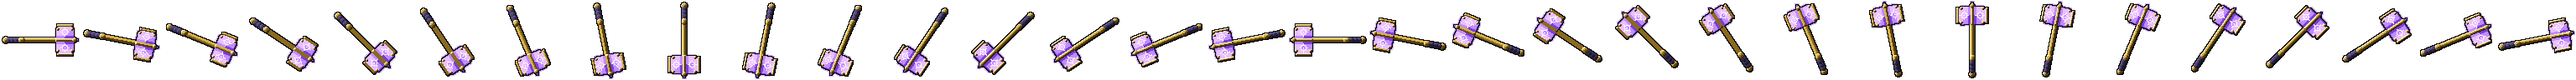
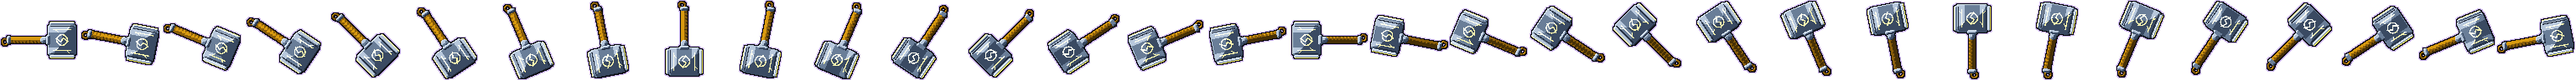
Mjolnir: the hammer's Ascension is the thunder-god's, with its own drawing
Eric: "when selecting the giant hammer ascension, the sprite should be entirely
different and more detailed, so it doesn't look like just a giant version of
the smaller hammer", and a Mjolnir reference for a Lightning crossover. Titan's
Maul (id kept) becomes Mjolnir: a steel block of a head, rune-cut in
Lightning's ramp and plated at its faces, on a short leather-wound haft with an
iron pommel and a wrist loop (spirit_weapons.py mjolnir(); the sheet keeps its
name). It keeps the colossal size and the stop, and every full slam calls a
thunderstroke onto where it landed and onto the 3 nearest enemies past its
edge, for half the slam and a 0.25 s stagger (SpiritualWeapon.CallThunder,
ThunderStrike's pixel-art stroke). Its Lightning is a trade for the hammer's
Light, as Ember Caps trades Poison for Fire: a spell may never name more than
two elements, which +1 Lightning on Arcane + Light broke. New card icon.

Band (Earthshaker + Mjolnir, level 8): 428 a second (Titan's Maul 423-426).

Also every card this branch wrote, cut to one line (the designer: "Overall
keep text minimal"): Tidal Wall, Trident, Mjolnir, and Arcane Orb's added
sentence removed.

Claude-Session: https://claude.ai/code/session_01YXZmSHQrdLtKkMEcduos8u

Changed region(s): [[0.0, 0.0, 1.0, 1.0]]

diff --git a/tools/art/spirit_weapons.py b/tools/art/spirit_weapons.py
@@ -70,6 +70,10 @@ OCC = bl.OCC
 ARC = bl.ELEMENTS["arcane"]     # core, hot, mid, edge
 GOLD = bl.MATERIALS["gold"]     # hi, lit, base, shade, deep
 VIOLET = bl.MATERIALS["violet"]
+# Mjolnir's (2026-10-31): steel in five tones, leather from amber's three darkest, runes in Lightning's ramp.
+STEEL = bl.MATERIALS["steel"]
+LEATHER = bl.MATERIALS["amber"][2:5]
+LIGHTNING = bl.ELEMENTS["lightning"]
 
 # The key light in screen space: from the upper left (art-direction.md section 2).
 KEY = (-1.0 / math.sqrt(2.0), -1.0 / math.sqrt(2.0))
@@ -303,6 +307,60 @@ def maul():
     return parts, 47.0
 
 
+def mjolnir():
+    """Mjolnir, the hammer's Ascension since 2026-10-31 (Eric: "the sprite should be entirely different and
+    more detailed, so it doesn't look like just a giant version of the smaller hammer", and a Mjolnir
+    reference for a Lightning crossover). Not the spirit hammer grown: a made thing of steel, not of
+    conjured light. A broad, deep block of a head - wider across than the haft is long, its corners cut -
+    plated at both striking faces, grooved a hand in from each, and rune-cut down its cheek in Lightning's
+    ramp: a ring with a bolt through it and a rune stroke either side. Under it a short, thick haft wound
+    in leather the whole way, an iron pommel, and the wrist loop hanging off the pommel. The grip and the
+    head keep the boss cell's points (28 behind and ahead of the centre), which SpiritualWeapon reads."""
+    parts = []
+    # The haft: short and thick, leather wound over steel; only its last stretch shows under the head.
+    parts.append(Part(lambda u, v: sd_capsule(u, v, -36.0, 11.0, 3.6), "steel", 1, (-39.6, 14.6, -3.6, 3.6)))
+    wraps = [(-33.5 + 4.2 * i, -31.3 + 4.2 * i) for i in range(9)]
+    _grip(parts, wraps, 4.1, mat="leather", layer=2)
+    parts.append(Part(lambda u, v: sd_capsule(u, v, 4.4, 5.8, 4.4), "steel", 3, (0.0, 10.2, -4.4, 4.4)))
+    # The pommel, and the loop of cord through it.
+    parts.append(Part(lambda u, v: sd_box(u, v, -37.6, 0.0, 2.6, 4.8, 1.4), "steel", 3, (-40.2, -35.0, -4.8, 4.8)))
+    loop = lambda u, v: abs(math.hypot(u + 42.0, v - 2.5) - 3.4) - 1.1
+    parts.append(Part(loop, "leather", 2, (-46.6, -37.4, -2.1, 7.1)))
+
+    # The head: u 9 to 43, v -22 to 22, its corners cut.
+    def rune(u, v):
+        r = math.hypot(u - 26.0, v)
+        if 5.6 < r < 7.0:
+            return True
+        # A bolt through the ring: a zigzag of three strokes, one art px wide.
+        bolt = [(17.0, -2.4), (24.6, 2.0), (27.4, -2.0), (35.0, 2.4)]
+        if r < 8.4 and polyline_dist(u, v, bolt) < 0.7:
+            return True
+        # A rune stroke either side: a stave with two short twigs (the old letters on its cheek).
+        for sv in (-1.0, 1.0):
+            cv = sv * 12.4
+            if abs(v - cv) < 0.65 and 15.0 < u < 37.0:
+                return True
+            if abs((u - 31.0) - (v - cv) * 1.2 * sv) < 0.75 and 31.0 < u < 35.0:
+                return True
+            if abs((u - 18.0) + (v - cv) * 1.2 * sv) < 0.75 and 18.0 < u < 22.0:
+                return True
+        return False
+    parts.append(Part(lambda u, v: sd_box(u, v, 26.0, 0.0, 17.0, 22.0, 5.0), "steel", 4, (9.0, 43.0, -22.0, 22.0),
+                      rune=rune, depth=lambda u, v: 22.0 - abs(v)))
+    # The striking faces: plates a stop brighter, with a rim of lightning where the strike lands.
+    for sv in (-1.0, 1.0):
+        parts.append(Part(lambda u, v, sv=sv: sd_box(u, v, 26.0, sv * 20.2, 15.4, 1.9, 1.6), "plate", 5,
+                          (10.6, 41.4, sv * 20.2 - 1.9, sv * 20.2 + 1.9),
+                          edge=lambda u, v, sv=sv: abs(v - sv * 22.0) < 0.9))
+        # The groove a hand in from each face.
+        parts.append(Part(lambda u, v, sv=sv: sd_box(u, v, 26.0, sv * 16.8, 14.6, 0.55), "groove", 5,
+                          (11.4, 40.6, sv * 16.8 - 0.6, sv * 16.8 + 0.6)))
+    # Where the haft goes through the head: a steel boss on its lower edge.
+    parts.append(Part(lambda u, v: sd_box(u, v, 9.4, 0.0, 2.2, 6.0, 1.0), "steel", 6, (7.2, 11.6, -6.0, 6.0)))
+    return parts, 47.5
+
+
 def greatsword():
     """Celestial Greatsword: a jewelled pommel, a violet grip bound in gold wire, a winged guard with a
     gem, a gilded ricasso, and a long blade of light lettered with runes along its fuller."""
@@ -339,7 +397,9 @@ MODELS = {
     "hammer": lambda mirror: hammer(),
     "sword": lambda mirror: sword(),
     "greataxe": lambda mirror: greataxe(),
-    "maul": lambda mirror: maul(),
+    # The hammer's Ascension is Mjolnir since 2026-10-31; the sheet keeps its name (spirit-maul.png), which
+    # SpiritualWeapon loads. maul() above is the old giant hammer, kept for the record of what it replaced.
+    "maul": lambda mirror: mjolnir(),
     "greatsword": lambda mirror: greatsword(),
     "dagger": lambda mirror: dagger(),
 }
@@ -363,6 +423,28 @@ def _top(parts, u, v):
 
 
 def _shade(part, d, facing, u, v, big):
+    # Mjolnir's materials: steel and leather lit from the upper left, its runes and its faces' rims in
+    # Lightning's ramp rather than Arcane's (it is the thunder-god's, not a weapon of the spell's light).
+    if part.mat in ("steel", "plate", "groove", "leather"):
+        if part.rune is not None and part.rune(u, v):
+            return LIGHTNING[0] if facing > -0.2 else LIGHTNING[1]
+        if part.edge is not None and part.edge(u, v):
+            return LIGHTNING[1] if facing > -0.4 else LIGHTNING[2]
+        if part.mat == "groove":
+            return STEEL[4]
+        if part.mat == "leather":
+            # The wrap's turns: the top of each lit, its underside in shadow.
+            return LEATHER[0] if facing > 0.7 else LEATHER[1] if facing > -0.45 else LEATHER[2]
+        if d < 1.0:
+            i = 0 if facing > 0.6 else 1 if facing > 0.2 else 2 if facing > -0.35 else 3 if facing > -0.75 else 4
+            return STEEL[max(0, i - 1)] if part.mat == "plate" else STEEL[i]
+        i = 1 if facing > 0.35 else 2 if facing > -0.4 else 3
+        if part.mat == "plate":
+            i = max(0, i - 1)
+        # The cheek darkens into the middle of the block, so it reads as a mass and not a plate.
+        if part.depth is not None and part.depth(u, v) > 13.0 and i < 3:
+            i += 1
+        return STEEL[i]
     if part.rune is not None and part.rune(u, v):
         return ARC[0]
     if part.mat in ("gold", "violet"):

diff --git a/scripts/SpellEvolutionCatalog.cs b/scripts/SpellEvolutionCatalog.cs
@@ -263,7 +263,7 @@ public static class SpellEvolutionCatalog
 		{
 			Id = MagicMissile.ArcaneOrbId,
 			DisplayName = "Arcane Orb",
-			Description = $"Every missile is loosed as a great slow orb of arcane light that rolls straight through the pack, striking everything under it {1f / MagicMissile.OrbTickSeconds:0} times a second, and bursts where its flight ends for {MagicMissile.OrbBurstShare * 100f:0}% of a missile. Threaded, it turns on a fresh enemy each time its path runs clear, {MagicMissile.ThreadStrikes} times. +{(MagicMissile.OrbDamage - 1f) * 100f:0}% damage, {(MagicMissile.OrbCooldown - 1f) * 100f:0}% longer cooldown.",
+			Description = $"Every missile is loosed as a great slow orb of arcane light that rolls straight through the pack, striking everything under it {1f / MagicMissile.OrbTickSeconds:0} times a second, and bursts where its flight ends for {MagicMissile.OrbBurstShare * 100f:0}% of a missile. +{(MagicMissile.OrbDamage - 1f) * 100f:0}% damage, {(MagicMissile.OrbCooldown - 1f) * 100f:0}% longer cooldown.",
 			MilestoneLevel = 8,
 			CooldownMultiplier = MagicMissile.OrbCooldown,
 			DamageMultiplier = MagicMissile.OrbDamage,
@@ -400,6 +400,8 @@ public static class SpellEvolutionCatalog
 
 	private static readonly Color SpiritArcaneTint = new Color(0.86f, 0.78f, 1.0f);
 	private static readonly Color SpiritLightTint = new Color(1.0f, 0.95f, 0.76f);
+	// Mjolnir's: the slam's quake and debris in the pale yellow of a lightning stroke (the hammer draws itself).
+	private static readonly Color SpiritLightningTint = new Color(1.0f, 0.97f, 0.62f);
 
 	// THE AXE: heavy and slow; a blow cleaves everything within reach of its quarry and throws it back.
 	private static void SetupSpiritAxeEvolutions(SpellData spell)
@@ -533,18 +535,28 @@ public static class SpellEvolutionCatalog
 		spell.Level8Options.Add(new SpellEvolutionOption
 		{
 			Id = SpiritualWeapon.TitansMaulId,
-			DisplayName = "Titan's Maul",
-			// The colossal form, twice the hammer's size: the slam is twice as wide by its Scale. The stop
-			// is a freeze (SpellData.GetFreezeSecondsAtLevel); a boss takes a hard slow instead (Enemy.ApplySlow).
-			Description = "The hammer becomes a colossal maul, twice the size: its slam reaches twice as wide, hits 20% harder and stops what it hits dead for 0.5 s.",
+			// MJOLNIR since 2026-10-31 (it was Titan's Maul, a giant of the spirit hammer; the id stays). Eric:
+			// "the sprite should be entirely different and more detailed" and "a Mjolnir reference ... a
+			// lightning tag crossover". The thunder-god's hammer: its own drawing (tools/art/spirit_weapons.py,
+			// mjolnir()), the colossal size and the stop kept, and the lightning every slam calls down
+			// (SpiritualWeapon.CallThunder). Its Lightning is a TRADE for the hammer's Light, as Ember Caps
+			// trades Poison for Fire: a spell may never name more than two elements (RegressionChecks), and the
+			// hammer is Arcane + Light. It pays the attunement price Hallowed Ground and Hammerfall pay. The stop
+			// is a freeze (SpellData.GetFreezeSecondsAtLevel); a boss takes a hard slow (Enemy.ApplySlow).
+			ReplacesElement = "Light",
+			BonusElementWeights = new() { { "Lightning", 1 } },
+			ModulateColor = SpiritLightningTint,
+			DisplayName = "Mjolnir",
+			Description = $"A giant hammer whose slam stops what it hits and calls lightning onto the {SpiritualWeapon.MjolnirStrikes} nearest enemies past it. Trades Light for Lightning.",
+			CooldownMultiplier = AttunementGainCooldownCost,
 			MilestoneLevel = 8,
 			ScaleMultiplier = 2.0f,
 			DamageMultiplier = 1.2f,
 			Effect = SpellEffect.Freeze,
 			EffectValue = 0.5f,
 			VisualTag = "SpiritTitansMaul",
-			SynergyTag = "Light / Colossal",
-			SynergyDescription = "Ascension: the ground stops them where they stand."
+			SynergyTag = "Lightning / Colossal",
+			SynergyDescription = "Ascension: stops the knot; lightning takes the edge."
 		});
 
 		spell.Level8Options.Add(new SpellEvolutionOption
@@ -2754,12 +2766,12 @@ public static class SpellEvolutionCatalog
 		// at once were overkilling the same pack, and one measures where three did (BoltEvolutions.TidalWall*,
 		// .ai/spell-roster.md 2i).
 		spell.Level8Options.Add(Branch(spell, DefaultBranch.TitanCataclysm,
-			$"The wave leaves your hand at its own size and rises as it rolls out, into a wall of water {BoltEvolutions.TidalWallScale:0} times as wide by the end of its run. +{(BoltEvolutions.TidalWallDamage - 1f) * 100f:0}% damage and it breaks through 40 more before it is spent, but the sea takes {BoltEvolutions.TidalWallCooldown:0} times as long to gather between walls.",
-			"Ascension / Water", "Ascension: the sea comes in - seldom, and all at once.",
+			$"The wave swells as it rolls out into a wall {BoltEvolutions.TidalWallScale:0} times as wide, but comes a third as often.",
+			"Ascension / Water", "Ascension: one great wall at a time.",
 			o => { Renamed(o, "Tidal Wall", "TidalWall", sea); o.DamageMultiplier = BoltEvolutions.TidalWallDamage; o.ScaleMultiplier = BoltEvolutions.TidalWallScale; o.CooldownMultiplier = BoltEvolutions.TidalWallCooldown; o.PierceBonus = 40; }));
 		// Not "Spring Tide", as 2e first proposed: that is Tituba's Apotheosis's name.
 		spell.Level8Options.Add(Branch(spell, DefaultBranch.InfiniteHorizon,
-			$"Three waves fan out from your hand at once, the middle one on your aim and the others {BoltEvolutions.TridentSpreadDegrees:0} degrees to either side. -{(1f - BoltEvolutions.TridentCooldown) * 100f:0}% cooldown, and each wave {(BoltEvolutions.TridentDamage - 1f) * 100f:0}% harder and tearing through 4 more.",
+			$"Three waves fan out from your hand at once, each {(BoltEvolutions.TridentDamage - 1f) * 100f:0}% harder.",
 			"Ascension / Water", "Ascension: a wedge of sea in front of you every cast.",
 			// Scaled back in the Ascension audit (2026-10-30): waves 40% bigger at half the cooldown stood two
 			// fans on the screen at once (BoltEvolutions.TridentScale).

diff --git a/scripts/SpiritualWeapon.cs b/scripts/SpiritualWeapon.cs
@@ -110,6 +110,17 @@ public partial class SpiritualWeapon : Node2D
 	public const string EarthshakerId = "spiritual_weapon_hammer_earthshaker";
 	public const string HallowedGroundId = "spiritual_weapon_hammer_hallowed_ground";
 	public const string TitansMaulId = "spiritual_weapon_hammer_titans_maul";
+	// MJOLNIR (2026-10-31): the hammer's colossal Ascension is the thunder-god's, under Titan's Maul's id (saves,
+	// the browser and SeenAscensionIds carry over). Eric: "is there room for a Mjolnir reference ... so we can have
+	// a lightning tag crossover?" It keeps the maul's size and its stop, takes +1 Lightning, and every full slam
+	// (not the Aftershock's echo) calls the lightning down: a stroke out of the sky onto where it landed
+	// (ThunderStrike, Gale Blade's, on the pixel-art grid), and one onto each of the MjolnirStrikes nearest
+	// enemies just past the slam's edge - out to MjolnirReach of its radius - for MjolnirShare of the slam,
+	// staggering each MjolnirStagger seconds. The slam holds the knot; the lightning takes the ones round it.
+	public const int MjolnirStrikes = 3;
+	public const float MjolnirReach = 2.2f;
+	public const float MjolnirShare = 0.5f;
+	public const float MjolnirStagger = 0.25f;
 	public const string HammerfallId = "spiritual_weapon_hammer_hammerfall";
 
 	public const string TwinBladesId = "spiritual_weapon_sword_twin_blades";
@@ -423,7 +434,7 @@ public partial class SpiritualWeapon : Node2D
 	private float freezeSeconds;
 	private float knockback = AxeKnockback;
 	private float zoneSeconds;
-	private bool headsman, aftershock, hallowed, whirling, deflect, twin, siphon, flurry, alongBlade;
+	private bool headsman, aftershock, hallowed, whirling, deflect, twin, siphon, flurry, alongBlade, mjolnir;
 	private Color tint = Colors.White;
 	private ElementColors.Ramp arcane = ElementColors.GetRamp(Element.Arcane);
 	private ElementColors.Ramp light = ElementColors.GetRamp(Element.Light);
@@ -558,6 +569,7 @@ public partial class SpiritualWeapon : Node2D
 		twin = form == Form.Sword && spell.HasEvolution(TwinBladesId);
 		flurry = spell.HasEvolution(ThousandCutsId);
 		alongBlade = spell.HasEvolution(GreatswordId);
+		mjolnir = spell.HasEvolution(TitansMaulId);
 		colossal = spell.HasEvolution(GreatswordId) || spell.HasEvolution(GreataxeId) || spell.HasEvolution(TitansMaulId);
 		pace = form == Form.Sword ? PaceFor(interval) : 1f;
 		StatPeakPace = MathF.Max(StatPeakPace, pace);
@@ -1482,6 +1494,59 @@ public partial class SpiritualWeapon : Node2D
 			QueueEcho(at, radius * AftershockReach, Math.Max(1, Mathf.RoundToInt(dealt * AftershockShare)));
 		if (!echo && hallowed)
 			AddZone(at, radius, zoneSeconds);
+		if (!echo && mjolnir)
+			CallThunder(at, dealt, radius, arena);
+	}
+
+	// Mjolnir: a stroke onto where the hammer landed, and onto the nearest few just past the slam's edge.
+	// Nearest first in fixed slots, as Solar Prominence picks its targets; nothing allocated.
+	private readonly Enemy[] thunderTargets = new Enemy[MjolnirStrikes];
+	private readonly float[] thunderDistances = new float[MjolnirStrikes];
+
+	private void CallThunder(Vector2 at, int dealt, float radius, Node2D arena)
+	{
+		ThunderStrike.Spawn(arena, at, radius * 0.5f);
+		float inner = radius + RiptideWave.BodyAllowance;
+		float outer = radius * MjolnirReach + RiptideWave.BodyAllowance;
+		int found = 0;
+		EnemyRegistry.CollectNear(at, outer, hitBuffer);
+		foreach (Enemy e in hitBuffer)
+		{
+			if (!Alive(e))
+				continue;
+			float d = at.DistanceTo(e.GlobalPosition);
+			if (d <= inner || d > outer)
+				continue;
+			int slot;
+			if (found < MjolnirStrikes)
+				slot = found++;
+			else if (d < thunderDistances[MjolnirStrikes - 1])
+				slot = MjolnirStrikes - 1;
+			else
+				continue;
+			while (slot > 0 && thunderDistances[slot - 1] > d)
+			{
+				thunderTargets[slot] = thunderTargets[slot - 1];
+				thunderDistances[slot] = thunderDistances[slot - 1];
+				slot--;
+			}
+			thunderTargets[slot] = e;
+			thunderDistances[slot] = d;
+		}
+		hitBuffer.Clear();
+		int bolt = Math.Max(1, Mathf.RoundToInt(dealt * MjolnirShare));
+		for (int i = 0; i < found; i++)
+		{
+			Enemy e = thunderTargets[i];
+			thunderTargets[i] = null;
+			if (!Alive(e))
+				continue;
+			Vector2 where = e.GlobalPosition;
+			Strike(e, bolt);
+			if (IsInstanceValid(e) && !e.IsDying)
+				e.ApplyShock(MjolnirStagger);
+			ThunderStrike.Spawn(arena, where, 26f);
+		}
 	}
 
 	private void Strike(Enemy e, int amount)

diff --git a/scripts/EvolutionStatReaders.cs b/scripts/EvolutionStatReaders.cs
@@ -169,7 +169,7 @@ public static class EvolutionStatReaders
 			SpellEffect.AreaSize, SpellEffect.CritDamage),
 		["spiritual_weapon_hammer"] = R(Core | EvolutionStat.Projectiles | EvolutionStat.Range | EvolutionStat.Area | EvolutionStat.Scale
 				| EvolutionStat.Slow | EvolutionStat.Rider,
-			"SpiritualWeapon.Arm, HammerSlam and TickZones (Area and Scale are the slam; Slow on its slow; ZoneDuration is Hallowed Ground's; Aftershock by id)",
+			"SpiritualWeapon.Arm, HammerSlam and TickZones (Area and Scale are the slam; Slow on its slow; ZoneDuration is Hallowed Ground's; Aftershock and Mjolnir's lightning, CallThunder, by id)",
 			SpellEffect.AreaSize, SpellEffect.SlowPower, SpellEffect.SlowDuration, SpellEffect.Freeze, SpellEffect.ZoneDuration, SpellEffect.CritDamage),
 		["spiritual_weapon_sword"] = R(Core | EvolutionStat.Projectiles | EvolutionStat.Range | EvolutionStat.Scale | EvolutionStat.Rider,
 			"SpiritualWeapon.Arm, SwordBlow, ParryBolts and Siphon (Scale is the greatsword's blade and guard; Deflection's interceptions, Twin Blades' dagger, Thousand Cuts and the greatsword's stroke by id)",

diff --git a/tools/art/evolution_icons.py b/tools/art/evolution_icons.py
@@ -4840,12 +4840,19 @@ def _(sp, c):
 
 @card("spiritual_weapon_hammer_titans_maul")
 def _(sp, c):
-    """Titan's Maul: the colossal form - the maul, its shock, and the ice of what it stops dead."""
+    """Mjolnir (the id is Titan's Maul's, 2026-10-31): the thunder-god's hammer - a short-hafted steel
+    maul rune-cut in lightning - under a storm cloud, the stroke it calls coming down past it."""
     reset(sp)
-    sp.subject = weapon("maul", box=27.0)
+    sp.subject = weapon("maul", box=25.0)
     U(sp, v_shock(2))
-    O(sp, lambda cv, x: m_freeze(cv, (C0, C0 + 2.0), 11.0))
-    sp.why = "colossal maul; stops them"
+
+    def stroke(cv, x):
+        l = E["lightning"]
+        m_cloud(cv, 6.0)
+        zig(cv, (22, 9), (24, 17), l[2], jag=1.4, steps=3)
+        zig(cv, (23, 9), (25, 17), l[1], jag=1.4, steps=3, core=l[0])
+    O(sp, stroke)
+    sp.why = "the thunder-god's hammer; calls the lightning down"
 
 
 @card("spiritual_weapon_hammer_hammerfall")
